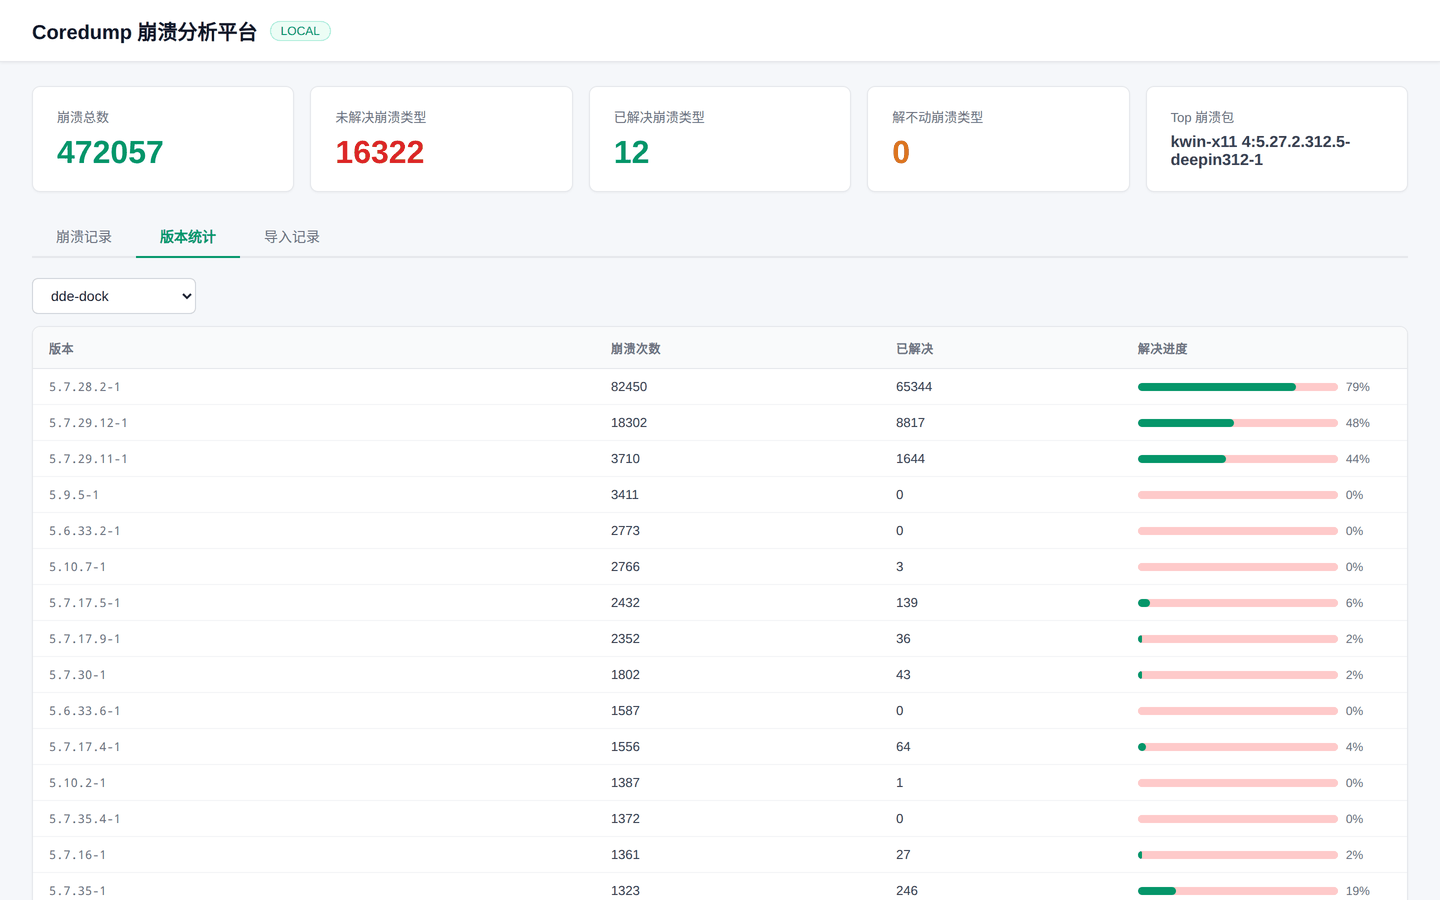
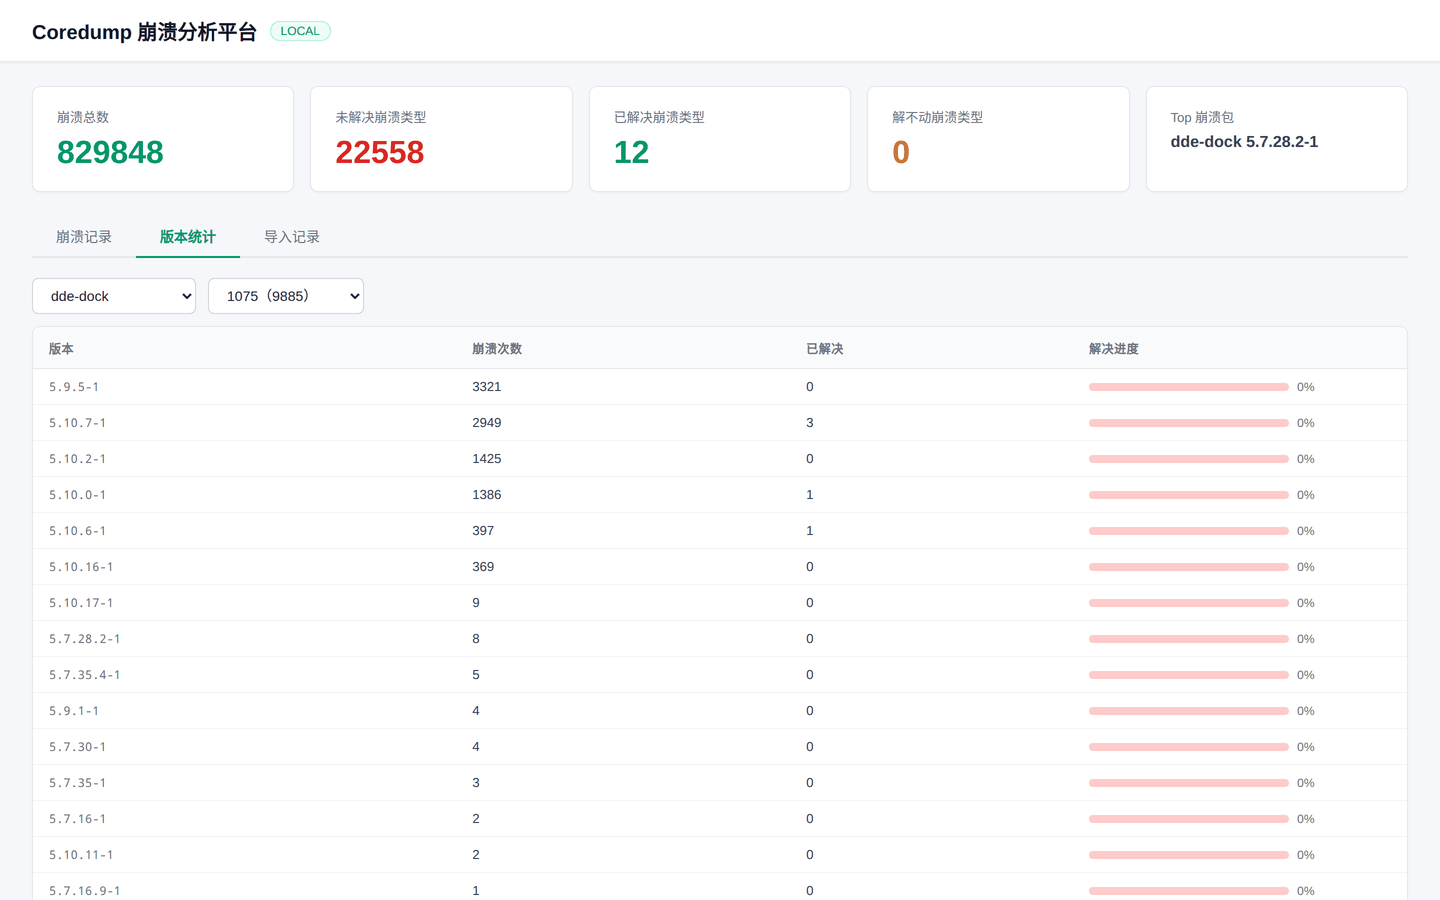
feat: 版本统计页支持按系统版本筛选
- 新增 /api/sys-versions?package=<name>，返回系统版本(1075/1072…)及崩溃次数
- /api/package/versions 增加可选 sys_version 参数
- 版本统计页在包下拉右侧新增系统版本下拉，选包时随之收窄，选项按版本号倒序
- 更新 05-version-stats 截图与 README 说明

diff --git a/templates/index.html b/templates/index.html
@@ -145,7 +145,8 @@ tbody td { padding:10px 16px; font-size:13px; color:#374151; max-width:220px; ov
 
   <div class="tab-panel" id="tab-version">
     <div class="toolbar" style="margin-bottom:12px">
-      <select id="version-pkg-filter" onchange="loadVersionStats()"><option value="">选择包...</option></select>
+      <select id="version-pkg-filter" onchange="onVersionPkgChange()"><option value="">选择包...</option></select>
+      <select id="version-sys-filter" onchange="loadVersionStats()"><option value="">全部系统版本</option></select>
     </div>
     <div class="version-table">
       <table><thead><tr><th>版本</th><th>崩溃次数</th><th>已解决</th><th>解决进度</th></tr></thead>
@@ -312,7 +313,7 @@ function debounceSearch() { clearTimeout(searchTimer); searchTimer = setTimeout(
 function switchTab(idx) {
   document.querySelectorAll('.tab-btn').forEach((b, i) => b.classList.toggle('active', i === idx));
   document.querySelectorAll('.tab-panel').forEach((p, i) => p.classList.toggle('active', i === idx));
-  if (idx === 1) loadPackages();
+  if (idx === 1) { loadPackages(); loadSysVersions(); }
   if (idx === 2) loadImportLogs(1);
 }
 
@@ -334,11 +335,33 @@ function loadPackages() {
   });
 }
 
+// 版本统计页的「系统版本」下拉：跟随所选包收窄，数字大的排在前面
+function loadSysVersions() {
+  const pkg = document.getElementById('version-pkg-filter').value;
+  const sel = document.getElementById('version-sys-filter');
+  const keep = sel.value;
+  const url = '/api/sys-versions' + (pkg ? '?package=' + encodeURIComponent(pkg) : '');
+  fetch(url).then(r=>r.json()).then(list => {
+    list.sort((a, b) => (parseFloat(b.version) || 0) - (parseFloat(a.version) || 0));
+    sel.innerHTML = '<option value="">全部系统版本</option>' + list.map(v =>
+      `<option value="${esc(v.version)}" title="${v.count} 次崩溃">${esc(v.version)}（${v.count}）</option>`).join('');
+    if (keep && list.some(v => v.version === keep)) sel.value = keep;
+  });
+}
+
+function onVersionPkgChange() {
+  loadSysVersions();
+  loadVersionStats();
+}
+
 function loadVersionStats() {
   const pkg = document.getElementById('version-pkg-filter').value;
+  const sysVer = document.getElementById('version-sys-filter').value;
   const tbody = document.getElementById('version-tbody');
   if (!pkg) { tbody.innerHTML = '<tr><td colspan="4" class="empty">请选择包名</td></tr>'; return; }
-  fetch('/api/package/versions?name=' + encodeURIComponent(pkg)).then(r=>r.json()).then(vers => {
+  let url = '/api/package/versions?name=' + encodeURIComponent(pkg);
+  if (sysVer) url += '&sys_version=' + encodeURIComponent(sysVer);
+  fetch(url).then(r=>r.json()).then(vers => {
     if (!vers || vers.length === 0) { tbody.innerHTML = '<tr><td colspan="4" class="empty">无数据</td></tr>'; return; }
     vers.sort((a,b) => b.crash_count - a.crash_count);
     tbody.innerHTML = vers.map(r => {

diff --git a/app.py b/app.py
@@ -218,21 +218,46 @@ def api_packages():
 @app.route('/api/package/versions')
 def api_package_versions_by_name():
     name = request.args.get('name', '').strip()
+    sys_version = request.args.get('sys_version', '').strip()
     conn, cursor = get_db()
-    cursor.execute('''
+    sql = '''
         SELECT pi.version, COUNT(ci.id) as crash_count,
                SUM(CASE WHEN cs.resolved = 1 THEN 1 ELSE 0 END) as resolved_count
         FROM crash_info ci
         JOIN package_info pi ON ci.package_id = pi.id
         LEFT JOIN crash_stack cs ON ci.stack_id = cs.id
-        WHERE pi.name = %s
-        GROUP BY pi.version
-        ORDER BY pi.version DESC
-    ''', (name,))
+        WHERE pi.name = %s'''
+    params = [name]
+    if sys_version:
+        sql += ' AND ci.sys_version = %s'
+        params.append(sys_version)
+    sql += ' GROUP BY pi.version ORDER BY pi.version DESC'
+    cursor.execute(sql, params)
     rows = cursor.fetchall()
     cursor.close()
     conn.close()
     return jsonify([{'version': r[0], 'crash_count': r[1], 'resolved_count': r[2]} for r in rows])
+
+
+@app.route('/api/sys-versions')
+def api_sys_versions():
+    """系统版本列表（1075/1072 等），带崩溃次数；可按包名收窄。"""
+    name = request.args.get('package', '').strip()
+    conn, cursor = get_db()
+    where = "WHERE ci.sys_version IS NOT NULL AND ci.sys_version != ''"
+    params = []
+    if name:
+        where += ' AND pi.name = %s'
+        params.append(name)
+    cursor.execute('''
+        SELECT ci.sys_version, COUNT(*) as cnt
+        FROM crash_info ci
+        JOIN package_info pi ON ci.package_id = pi.id
+        ''' + where + ' GROUP BY ci.sys_version ORDER BY cnt DESC', params)
+    rows = cursor.fetchall()
+    cursor.close()
+    conn.close()
+    return jsonify([{'version': r[0], 'count': r[1]} for r in rows])
 
 
 @app.route('/api/package/<int:pkg_id>/versions')

diff --git a/README.md b/README.md
@@ -32,7 +32,7 @@
 
 ![堆栈对比](docs/screenshots/04-compare.png)
 
-版本统计：按版本看崩溃量与解决进度。
+版本统计：按包版本看崩溃量与解决进度，右侧下拉可按系统版本（1075/1072 等）收窄。
 
 ![版本统计](docs/screenshots/05-version-stats.png)
 
